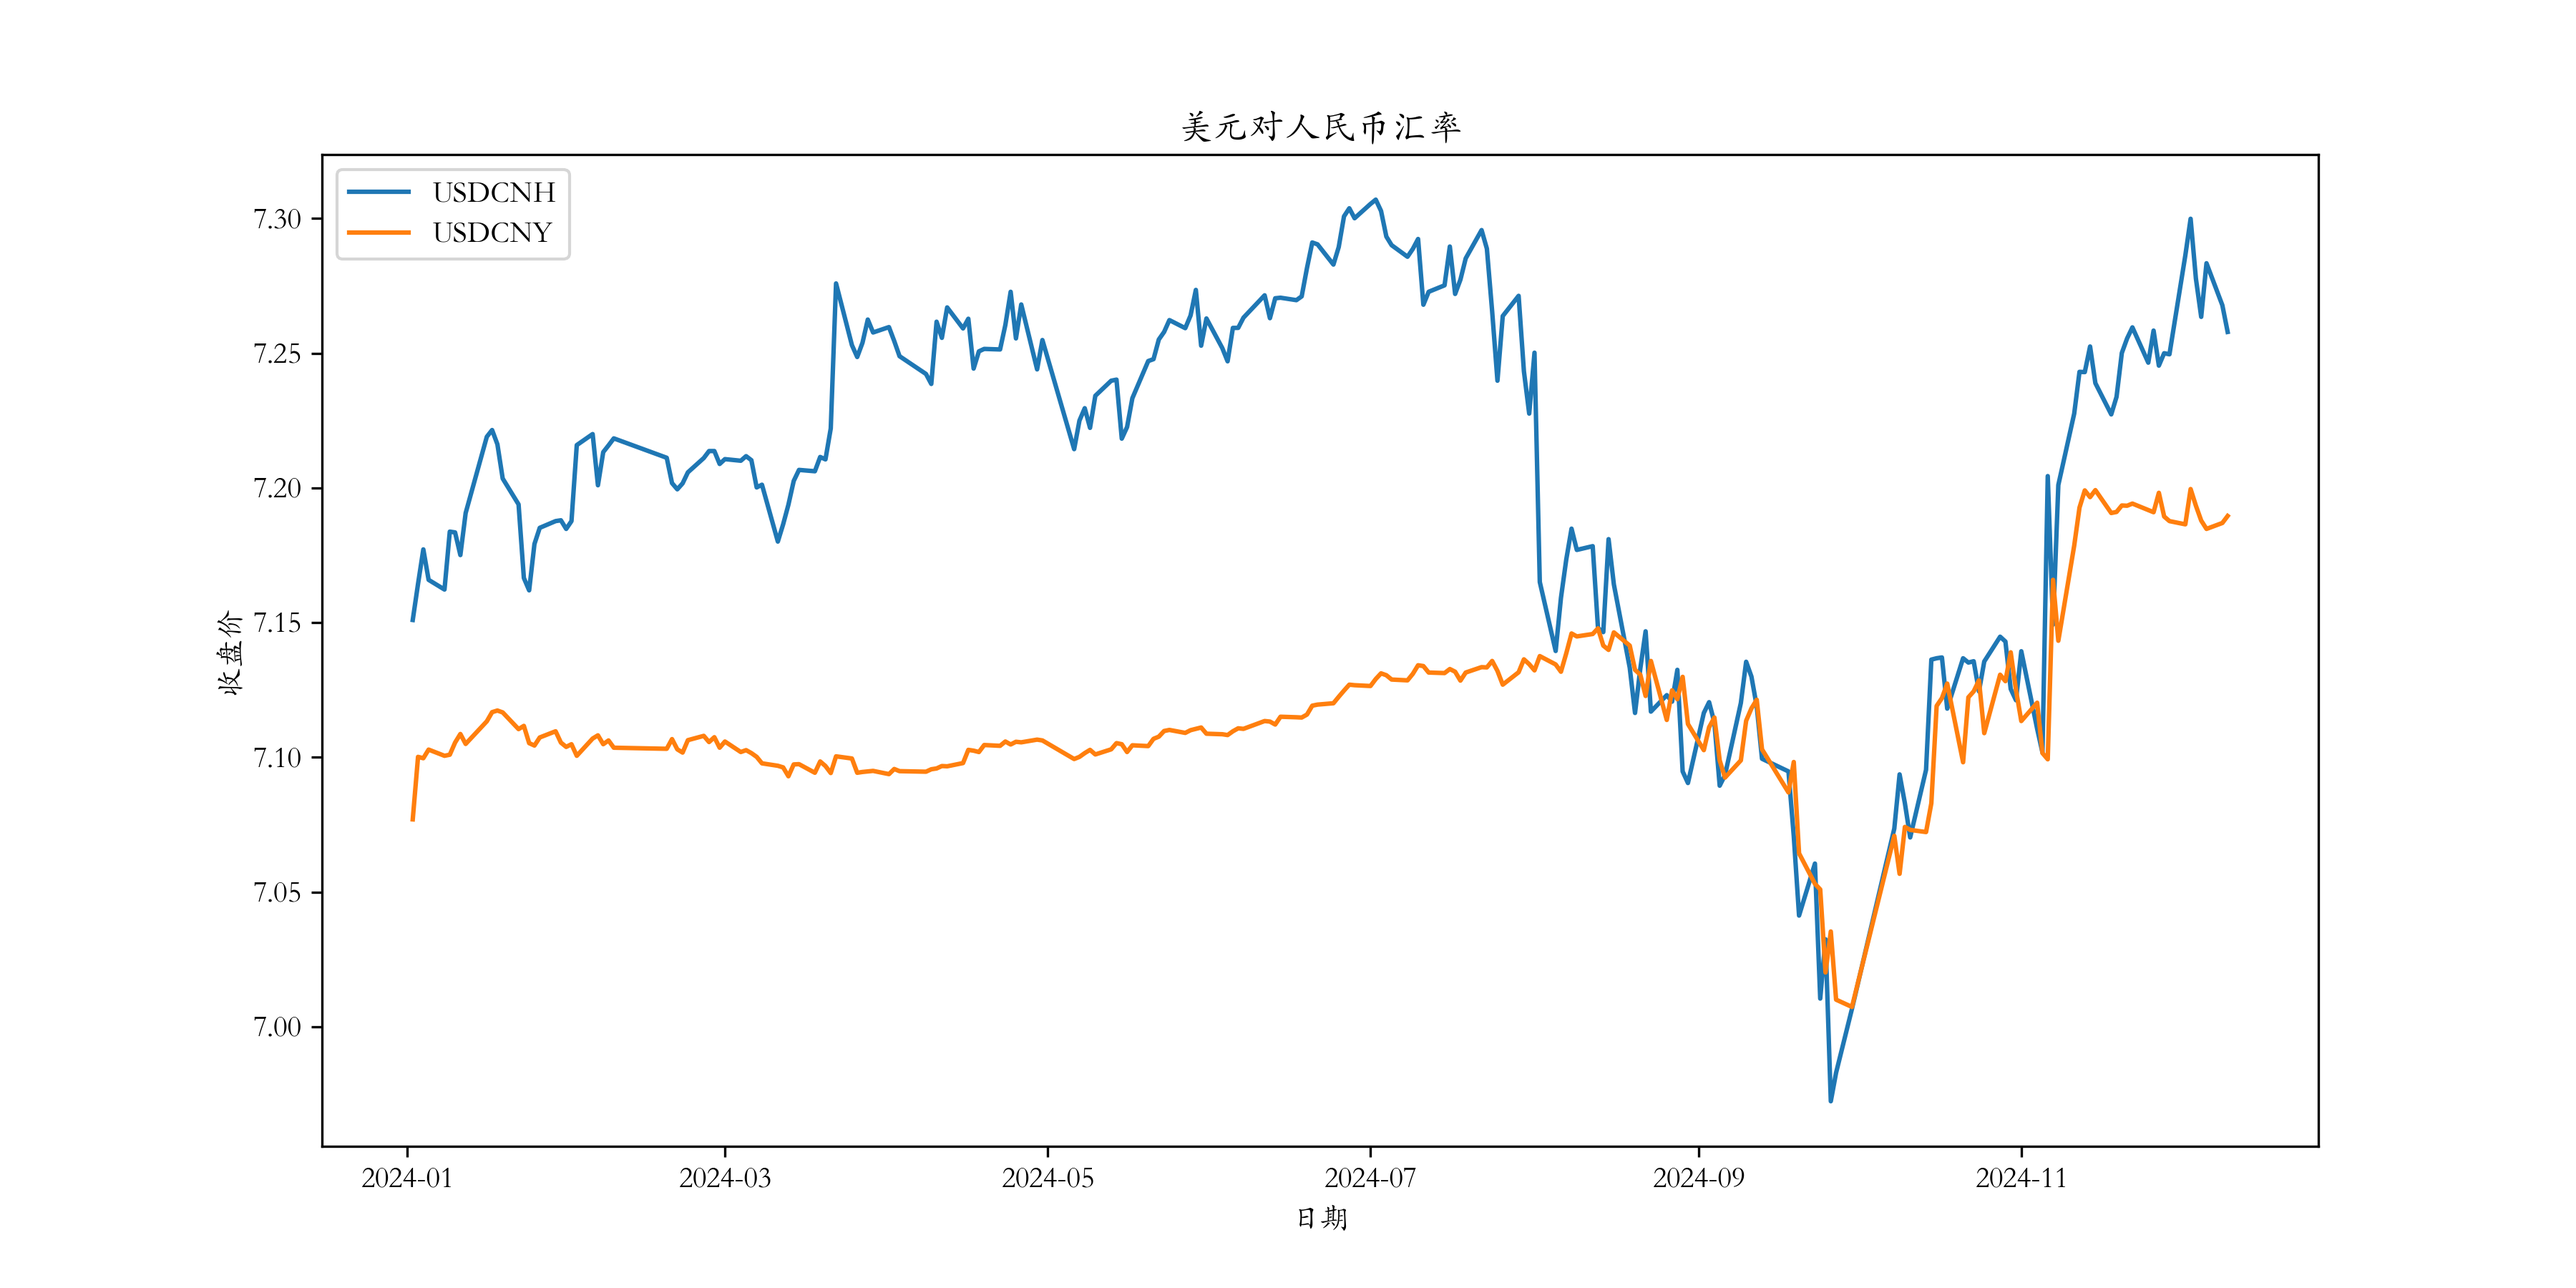
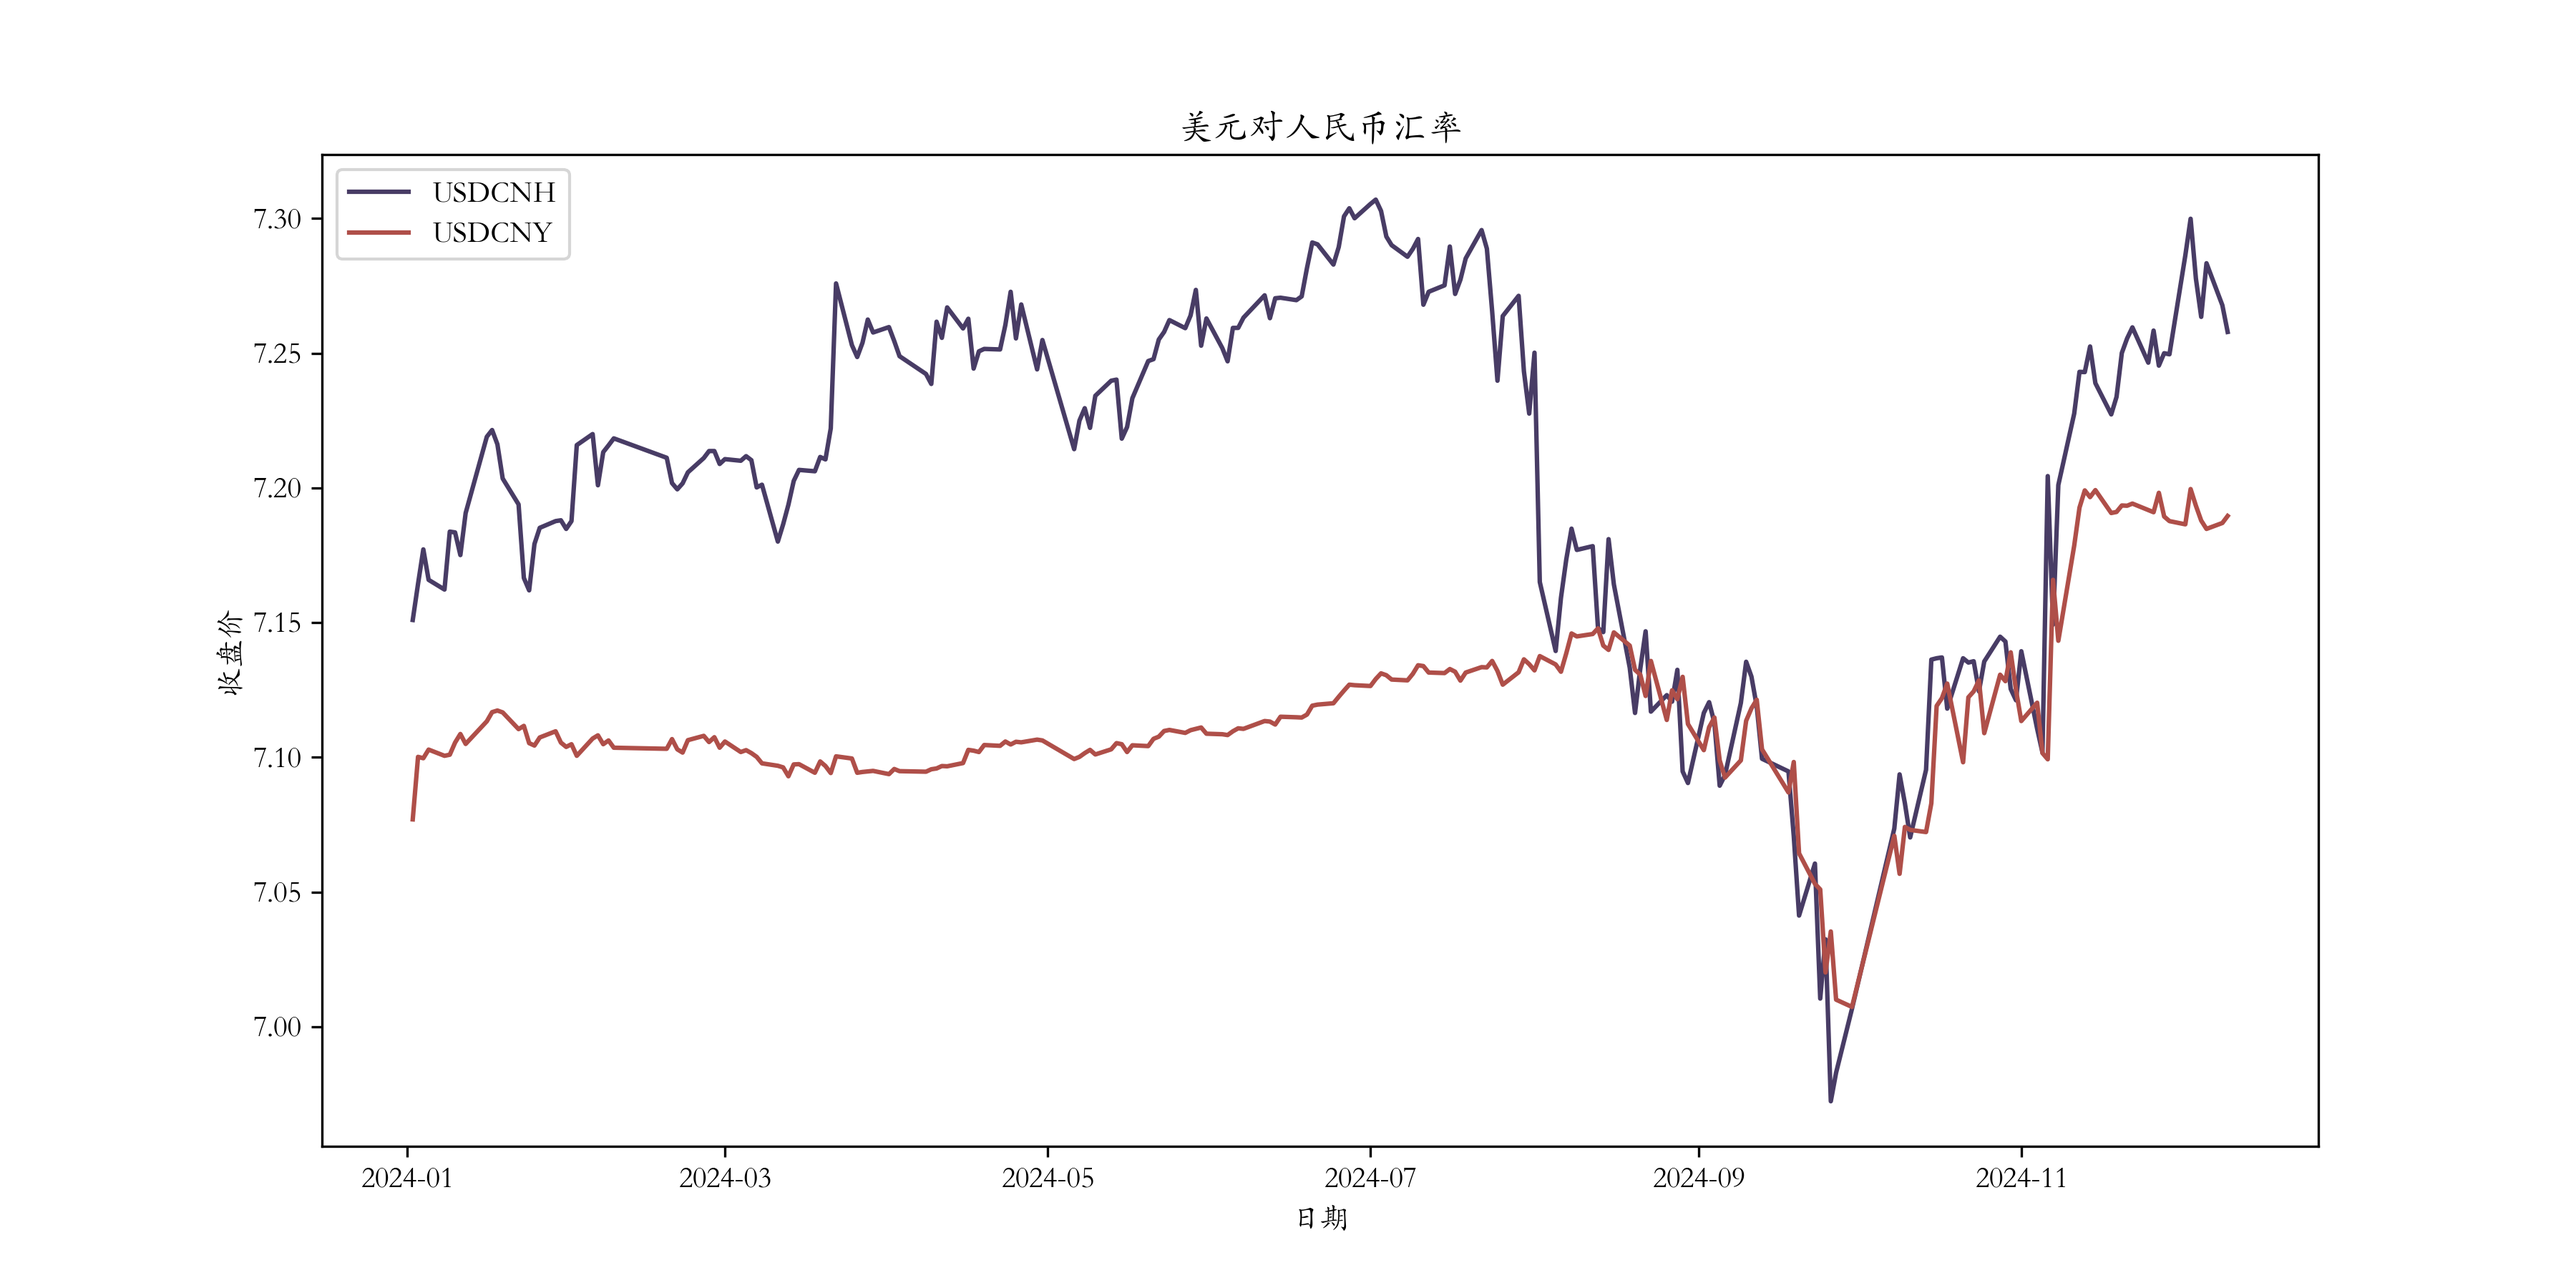
RS

diff --git a/code/shangzhenPlot.py b/code/shangzhenPlot.py
@@ -1,0 +1,25 @@
+import pandas as pd
+import matplotlib.pyplot as plt
+import os
+
+if not os.path.exists('../output/display'):
+    os.makedirs('../output/display')
+
+## plt config
+plt.rcParams['font.sans-serif'] = ['Kaiti SC']
+plt.rcParams['axes.unicode_minus'] = False
+
+## Load the data
+df = pd.read_csv('../dataset/上证指数_2024.csv')
+df['日期'] = pd.to_datetime(df['日期'])
+
+## visualization
+plt.figure(figsize=(12, 6))
+plt.plot(df['日期'], df['收盘'], '.-', color='#747092')
+plt.title('上证指数收盘价')
+plt.xlabel('日期')
+plt.ylabel('价格')
+plt.legend(['收盘'])
+plt.grid(True)
+# plt.show()
+plt.savefig(f'../output/display/上证指数收盘价.png', dpi=300)

diff --git a/code/RMBandUSDExchange.py b/code/RMBandUSDExchange.py
@@ -23,8 +23,8 @@ print(data_df.info())
 
 ## visualization
 plt.figure(figsize=(12, 6))
-plt.plot(data_df['日期'], data_df['收盘_x'], label='USDCNH')
-plt.plot(data_df['日期'], data_df['收盘_y'], label='USDCNY')
+plt.plot(data_df['日期'], data_df['收盘_x'], label='USDCNH', color='#483C65')
+plt.plot(data_df['日期'], data_df['收盘_y'], label='USDCNY', color='#AF4F49')
 plt.title('美元对人民币汇率')
 plt.xlabel('日期')
 plt.ylabel('收盘价')

diff --git a/README.md b/README.md
@@ -34,13 +34,15 @@
     + 中国M2货币供应年率
     + 中国PPI
 + 对选取出来的影响因子进行特征工程（这一步甚至可以先对选取出来的因子探究相互间的关系，再应用于对上证指数的分析），数据可视化。
-+ 选取回归模型：
-  + Baseline：$ y = \beta_0 + \beta_1 x_1 + \beta_2 x_2 + \dots + \beta_n x_n$
-  + 其他：
-    + LASSO
-    + Ridge
-    + 随机森林
-+ LOSS：MAE、MSE等
++ 分类选取不同的回归模型进行分析：
+  
+  | 因子类别     | 简单线性回归 | LASSO | VAR/VECM | 时间序列模型 | 非线性模型   |
+  | ------------ | ------------ | ----- | -------- | ------------ | ------------ |
+  | 股票类       | ✔            | ✔     | ✔        | ARIMA/ARCH   | SVR/神经网络 |
+  | 汇率类       | ✔            | ✔     | ✔        | ARIMA/VECM   | 树模型       |
+  | CPI类        | ✔            | ✔     |          |              | 贝叶斯回归   |
+  | 宏观经济指标 | ✔            | ✔     | ✔        | 动态因子模型 | 分位数回归   |
++ 评价指标：MAE、MSE等
 + 预测实验、结果可视化等
 
 ## Changelog
@@ -49,11 +51,18 @@
 
 基于经济学理论收集了各类、若干与上证指数有较大关联性的数据，并进行分类。
 
-以上证指数为 $ y $ ，各股票类数据为 $ x $ ，进行单变量线性回归分析，绘制出了拟合效果较好的部分图像，存储于 `main/dataset/lr` 。
+以上证指数为 $ y $ ，各股票类数据为 $ x $ ，进行单变量线性回归分析，绘制出了拟合效果较好的部分图像，存储于 `main/ouput/lr` 。
 
 部分效果欠佳的绘图结果未做保留，在 **IDEA** 部分以 “$ * $” 符号标注，留待后续进一步分析。
 
 ### v1.1.0 - 2024.12.12
+
+完成了一些基础图像的绘制，存储于 `main/output/display` ：
+
++ 人民币汇率中间价
+
++ USDCNH和USDCNY对比图
++ 上证指数收盘价
 
 ---
 
